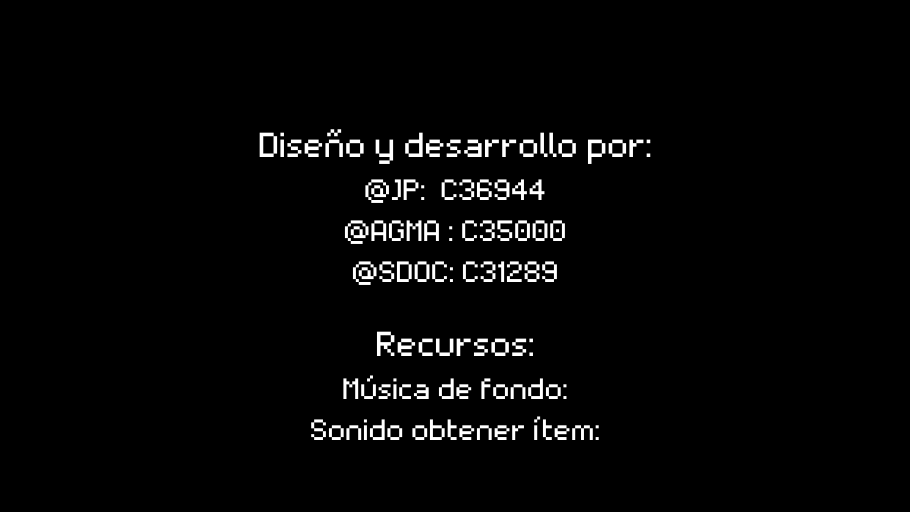
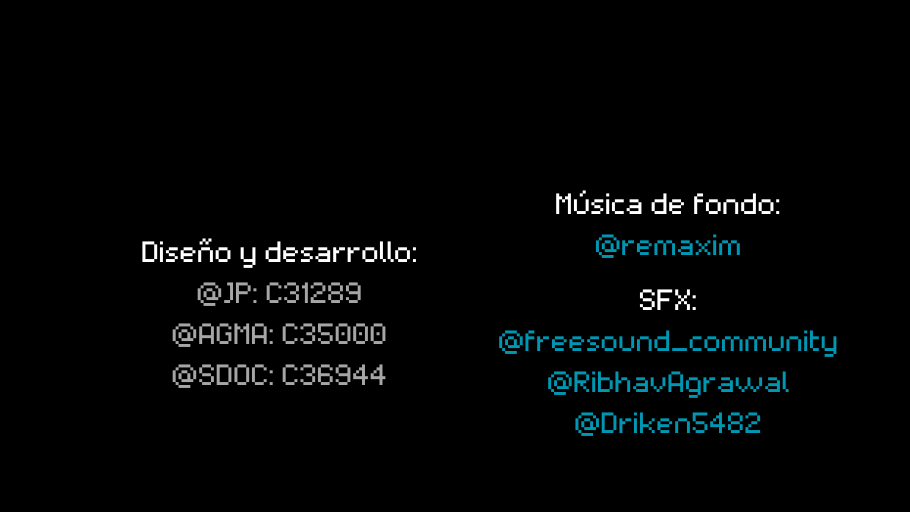
credits

Changed region(s): [[0.1538, 0.25, 0.8615, 0.5938], [0.1846, 0.625, 0.9231, 0.875], [0.7077, 0.5625, 0.7692, 0.625]]

diff --git a/code/vs/PI proyecto/LMAN/src/LettersUI.cpp b/code/vs/PI proyecto/LMAN/src/LettersUI.cpp
@@ -27,7 +27,6 @@ void LettersUI::draw(sf::RenderWindow& window) {
 
             // Diccionario
             if (getElement(i) == 3) {
-                letterSprite.setScale(2, 2);
                 letterSprite.move(-8, -8);
             }
             if (letterSprite.getTexture() != nullptr) {
